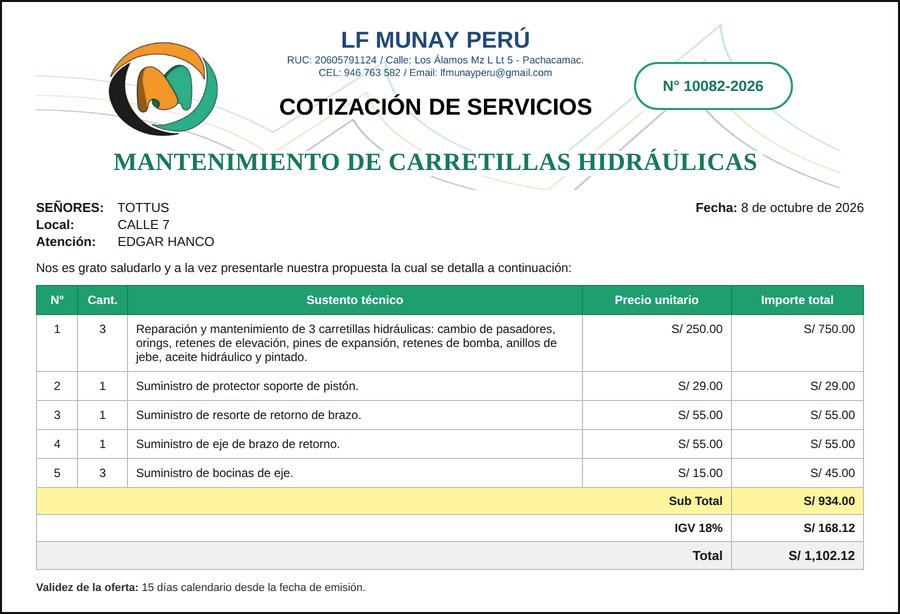
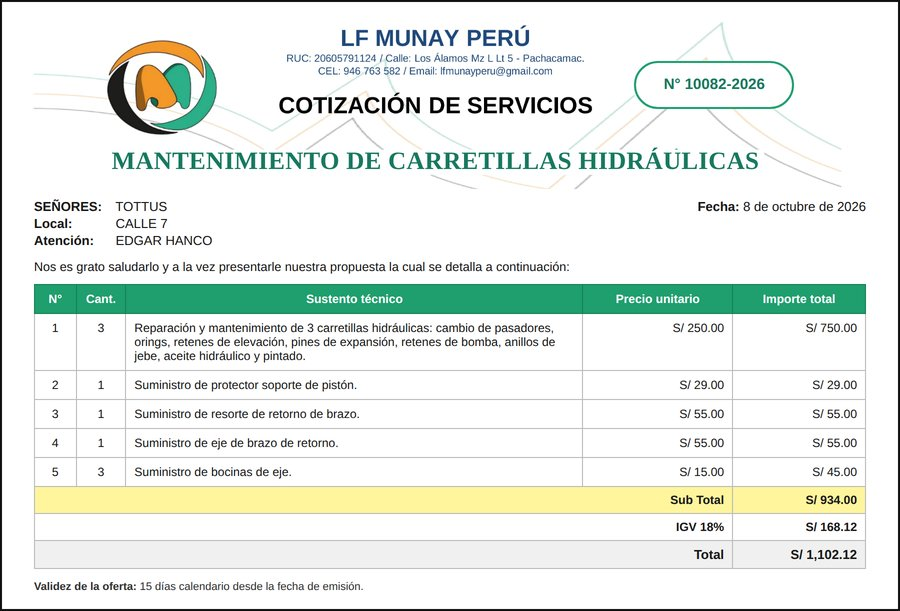
PDF centrado y marco continuo
Página = hoja + aire igual en los 4 lados (el @page en 0 anulaba el margen vertical) y marco
como capa ::after en vez de borde (el borde dejaba un escalón al terminar la imagen del
encabezado). probar.py --render verifica márgenes iguales y borde continuo.

Claude-Session: https://claude.ai/code/session_01FMLmhpAmhWEJoegSVDoWGQ

diff --git a/plantilla/cotizacion.html b/plantilla/cotizacion.html
@@ -12,7 +12,10 @@
      --------------------------------------------------------------------- */
   * { box-sizing: border-box; }
   body { margin: 0; font-family: Arial, Helvetica, sans-serif; color: #1a1a1a; background: #fff; }
-  .sheet { width: 900px; margin: 0 auto; border: 2px solid #111; }
+  .sheet { width: 900px; margin: 0 auto; position: relative; }
+  /* El marco es una capa encima, no el borde de .sheet: con borde, el PDF dibujaba el lado derecho
+     con un escalón de ~1px donde termina la imagen del encabezado (linea de más en el marco). */
+  .sheet::after { content: ""; position: absolute; inset: 0; border: 2px solid #111; pointer-events: none; }
   /* container-type permite que el N° y el título se midan en % del ancho real
      de la hoja (unidad cqw), así escalan solos si la hoja cambia de ancho. */
   .header-wrap { position: relative; width: 100%; container-type: inline-size; }

diff --git a/plantilla/generar.py b/plantilla/generar.py
@@ -375,7 +375,7 @@ def chromium():
 # fijo: cuando una cotización con muchas filas crecía en alto más que en ancho, el contenido se
 # ajustaba por la altura y sobraba muchísimo margen vacío a los costados (ver casuistica.md).
 # LADO_MAYOR_MM es solo una referencia de tamaño "más o menos A4", no un marco que llenar.
-MARGEN_MM = 8
+AIRE_PX = 28          # aire entre el marco y el borde de la página, igual en los 4 lados
 PX_POR_MM = 96 / 25.4
 LADO_MAYOR_MM = 297
 ESCALA_MIN, ESCALA_MAX = 0.55, 1.30
@@ -414,24 +414,20 @@ def render(html, base_salida):
         achicado = encajar_titulo(pg)
         pg.locator(".sheet").screenshot(path=base_salida + ".png")
 
-        # El ancho de la hoja queda fijo (900px, el diseño base); la escala se calcula para
-        # que su lado más largo (ancho o alto, según cuál domine) llegue a "más o menos A4".
-        # La página del PDF se dimensiona EXACTO al contenido ya escalado + el margen fijo, así
-        # que no queda holgura que repartir: el margen es el mismo en los 4 lados por
-        # construcción, no por centrado después.
+        # La hoja (900px) queda con un marco de aire igual en los 4 lados: la página del PDF mide
+        # exactamente hoja + aire, sin márgenes del navegador (antes el @page en 0 anulaba el margen
+        # vertical y la cotización quedaba pegada arriba y descentrada). La escala hace que el lado
+        # mayor llegue a "más o menos A4".
+        pg.add_style_tag(content=f"body{{padding:{AIRE_PX}px;margin:0}} .sheet{{margin:0}}")
         caja = pg.locator(".sheet").bounding_box()
-        lado_mayor_px = max(caja["width"], caja["height"])
-        escala = (LADO_MAYOR_MM - 2 * MARGEN_MM) * PX_POR_MM / lado_mayor_px
-        escala = min(escala, ESCALA_MAX)
-        escala = max(escala, ESCALA_MIN)     # más abajo sería ilegible: mejor una 2da página
-
-        ancho_mm = caja["width"] * escala / PX_POR_MM + 2 * MARGEN_MM
-        alto_mm = caja["height"] * escala / PX_POR_MM + 2 * MARGEN_MM
-        margen = f"{MARGEN_MM}mm"
-
+        ancho_css, alto_css = caja["width"] + 2 * AIRE_PX, caja["height"] + 2 * AIRE_PX
+        escala = LADO_MAYOR_MM * PX_POR_MM / max(ancho_css, alto_css)
+        escala = max(min(escala, ESCALA_MAX), ESCALA_MIN)     # más abajo sería ilegible
+        ancho_mm = ancho_css * escala / PX_POR_MM
+        alto_mm = alto_css * escala / PX_POR_MM + 0.3        # holgura: evita una 2da página por redondeo
         pg.pdf(path=base_salida + ".pdf", width=f"{ancho_mm:.2f}mm", height=f"{alto_mm:.2f}mm",
-               print_background=True, scale=round(escala, 3),
-               margin={"top": margen, "bottom": margen, "left": margen, "right": margen})
+               print_background=True, scale=round(escala, 4),
+               margin={"top": "0", "bottom": "0", "left": "0", "right": "0"})
         nav.close()
     return base_salida + ".png", base_salida + ".pdf", achicado
 

diff --git a/herramientas/probar.py b/herramientas/probar.py
@@ -9,7 +9,7 @@ La referencia son cotizaciones REALES ya emitidas: si un cambio mueve un céntim
 se le entregó a un cliente, falla. Agregar un trabajo nuevo a la biblioteca no debería romper
 ninguna — para eso existen.
 """
-import datetime, json, os, shutil, sys, tempfile, traceback
+import datetime, json, os, shutil, subprocess, sys, tempfile, traceback
 from decimal import Decimal
 
 AQUI = os.path.dirname(os.path.abspath(__file__))
@@ -418,6 +418,18 @@ def render_final_real_sin_tocar_el_archivo():
             generar.main()
         finally:
             sys.argv = argv
+        pdf = os.path.join(tmp, "N° 9196-2026 CARRETILLAS TT PUCALLPA MUNAY.pdf")
+        subprocess.run(["pdftoppm", "-r", "100", "-png", pdf, os.path.join(tmp, "pag")], check=True)
+        from PIL import Image
+        im = Image.open(os.path.join(tmp, "pag-1.png")).convert("L")
+        w, h = im.size
+        px = im.load()
+        xs = [x for x in range(w) if any(px[x, y] < 200 for y in range(0, h, 2))]
+        ys = [y for y in range(h) if any(px[x, y] < 200 for x in range(0, w, 2))]
+        m = [xs[0], w - 1 - xs[-1], ys[0], h - 1 - ys[-1]]
+        assert max(m) - min(m) <= 3, f"cotización descentrada en la página, márgenes izq/der/arr/abj: {m}"
+        escalones = {sum(1 for y in range(a, a + 40) if px[xs[-1], y] < 100) for a in range(ys[0] + 5, ys[-1] - 40, 80)}
+        igual(escalones, {40}, "el borde derecho del marco es continuo")
         for nombre in ("9196-2026.png", "N° 9196-2026 CARRETILLAS TT PUCALLPA MUNAY.pdf",
                        "archivo/9196-2026.jpg", "archivo/9196-2026.json"):
             assert os.path.getsize(os.path.join(tmp, nombre)) > 0, f"falta {nombre}"

diff --git a/plantilla/README.md b/plantilla/README.md
@@ -173,6 +173,17 @@ existe para que eso tenga dónde ir.
 
 Si `atencion` está vacío, la línea "Atención:" no se imprime (antes salía la etiqueta sola).
 
+## Acabado del PDF: centrado y marco continuo (08/10/2026)
+
+Dos defectos vistos en el PDF de 10082-2026, ya corregidos y vigilados por `probar.py --render`:
+
+- **No estaba centrada:** el CSS `@page { margin: 0 }` anulaba el margen vertical, así que la
+  cotización quedaba pegada arriba con más aire abajo. Ahora la página mide exactamente la hoja
+  más `AIRE_PX` (28px) por lado y los márgenes del PDF salen iguales: 34/35/34/35 px.
+- **Línea de más en el marco:** con el marco como borde de `.sheet`, el PDF dibujaba el lado
+  derecho con un escalón de ~1px donde termina la imagen del encabezado. El marco es ahora una
+  capa encima (`.sheet::after`), un solo trazo continuo.
+
 ## Marco interno simétrico
 
 El borde negro de `.sheet` tiene que quedar a la misma distancia del contenido arriba y abajo
